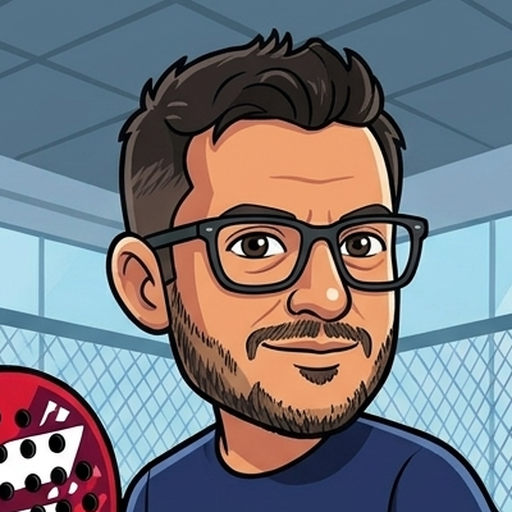
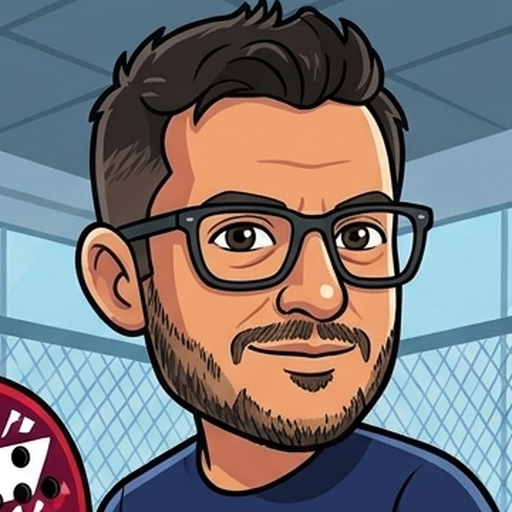
Refresh player image assets and normalization

diff --git a/style.css b/style.css
@@ -2069,6 +2069,7 @@ select option { background: #2a1a66; }
   .rank-elo { font-size: 1.5rem; }
   .player-detail-hero { grid-template-columns: 1fr 1fr; gap: 12px; }
   .player-detail-image { height: 190px; }
+  .player-image-fullscreen #player-image-fullscreen-body { padding: 12px; }
   .player-detail-elo { font-size: 2.6rem; }
   .player-detail-stats { grid-template-columns: repeat(3, 1fr); }
   .match-teams { gap: 8px; }

diff --git a/app.js b/app.js
@@ -1208,7 +1208,7 @@ function openPlayerDetail(id) {
 function openPlayerImageFullscreen(player) {
   const body = document.getElementById('player-image-fullscreen-body');
   if (!body) return;
-  body.innerHTML = playerImageMarkup(player, 'complete', 'player-fullscreen-image');
+  body.innerHTML = playerImageMarkup(player, 'full', 'player-fullscreen-image');
   openModal('modal-player-image');
 }
 

diff --git a/scripts/generate_brawl_assets.py b/scripts/generate_brawl_assets.py
@@ -11,13 +11,18 @@ SOURCE_DIR = Path.home() / "Downloads" / "brawlers"
 OUTPUT_DIR = Path(__file__).resolve().parents[1] / "assets" / "players"
 
 PLAYERS = {
-    "DarioPrina_brawl.png": ("mvvjcutrf2ic", (400, 0, 800, 400), None),
-    "AlbiPiro_brawl.png": ("mvvjcutrvgsf", (315, 55, 715, 455), None),
-    "Manu_brawl.png": ("mvwe1vvf4dvi", (315, 50, 715, 450), None),
-    "RobyTorti_brawl.png": ("mvvl69yshvaz", (315, 40, 715, 440), None),
-    "StefanoDelMonte_brawl.png": ("mvvl55fl2w0c", (340, 30, 740, 430), None),
-    "FraProca_brawl.jpeg": ("mvvjcutrdbxy", (55, 30, 455, 430), (0, 0, 509, 1024)),
+    "DarioPrina_brawl.png": ("mvvjcutrf2ic", (440, 40, 800, 400), None),
+    "AlbiPiro_brawl.png": ("mvvjcutrvgsf", (345, 80, 705, 440), None),
+    "Manu_brawl.png": ("mvwe1vvf4dvi", (345, 75, 705, 435), None),
+    "RobyTorti_brawl.png": ("mvvl69yshvaz", (345, 75, 705, 435), None),
+    "StefanoDelMonte_brawl.png": ("mvvl55fl2w0c", (355, 60, 715, 420), None),
+    "FraProca_brawl.jpeg": ("mvvjcutrdbxy", (75, 55, 435, 415), (0, 0, 509, 1024)),
+    "vando.png": ("mvzv329qdc6g", (172, 260, 532, 620), None),
+    "felice.png": ("mvxkz03ccb68", (172, 260, 532, 620), None),
 }
+
+FULL_CANVAS_SIZE = (704, 1024)
+FULL_CHARACTER_HEIGHT = 1024
 
 
 def generate_assets(
@@ -40,17 +45,24 @@ def generate_assets(
         raise ValueError(f"{source_path.name}: no visible pixels after background removal")
 
     character = isolated.crop(alpha_bbox)
-    scale = 960 / character.height
+    scale = min(FULL_CHARACTER_HEIGHT / character.height, (FULL_CANVAS_SIZE[0] - 16) / character.width)
+    character_height = round(character.height * scale)
     character = character.resize(
-        (round(character.width * scale), 960), Image.Resampling.LANCZOS
+        (round(character.width * scale), character_height), Image.Resampling.LANCZOS
     )
-    if character.width > 768:
+    if character.width > FULL_CANVAS_SIZE[0]:
         raise ValueError(
             f"{source_path.name}: normalized character is too wide ({character.width}px)"
         )
 
-    full = Image.new("RGBA", (768, 1024), (0, 0, 0, 0))
-    full.alpha_composite(character, ((768 - character.width) // 2, 64))
+    full = Image.new("RGBA", FULL_CANVAS_SIZE, (0, 0, 0, 0))
+    full.alpha_composite(
+        character,
+        (
+            (FULL_CANVAS_SIZE[0] - character.width) // 2,
+            FULL_CANVAS_SIZE[1] - character.height,
+        ),
+    )
     full.save(OUTPUT_DIR / f"{player_id}_full.png", "PNG", optimize=True)
 
 
@@ -58,7 +70,10 @@ def main() -> None:
     OUTPUT_DIR.mkdir(parents=True, exist_ok=True)
     for filename, (player_id, face_box, complete_box) in PLAYERS.items():
         generate_assets(SOURCE_DIR / filename, player_id, face_box, complete_box)
-        print(f"{filename} -> {player_id}_closeup.png, {player_id}_full.png, {player_id}_complete.png")
+        print(
+            f"{filename} -> {player_id}_closeup.png, "
+            f"{player_id}_full.png, {player_id}_complete.png"
+        )
 
 
 if __name__ == "__main__":

diff --git a/assets/players/normalize_full_images.py b/assets/players/normalize_full_images.py
@@ -1,0 +1,87 @@
+#!/usr/bin/env python3
+"""Normalize full-body player images to a shared canvas and visible height."""
+
+from __future__ import annotations
+
+import argparse
+from pathlib import Path
+
+from PIL import Image
+
+
+def normalize_image(
+    source_path: Path,
+    output_path: Path,
+    canvas_width: int,
+    canvas_height: int,
+    character_height: int,
+) -> None:
+    image = Image.open(source_path).convert("RGBA")
+    alpha_bbox = image.getchannel("A").getbbox()
+    if alpha_bbox is None:
+        raise ValueError("l'immagine non contiene pixel visibili")
+
+    character = image.crop(alpha_bbox)
+    scale = character_height / character.height
+    resized_width = round(character.width * scale)
+    character = character.resize(
+        (resized_width, character_height), Image.Resampling.LANCZOS
+    )
+
+    if resized_width > canvas_width:
+        raise ValueError(
+            f"il personaggio normalizzato e' largo {resized_width}px, "
+            f"oltre il canvas di {canvas_width}px"
+        )
+
+    normalized = Image.new("RGBA", (canvas_width, canvas_height), (0, 0, 0, 0))
+    position = (
+        (canvas_width - resized_width) // 2,
+        canvas_height - character_height,
+    )
+    normalized.alpha_composite(character, position)
+    normalized.save(output_path, "PNG", optimize=True)
+
+
+def main() -> None:
+    parser = argparse.ArgumentParser(
+        description="Uniforma canvas, altezza e padding delle immagini *_full.png."
+    )
+    parser.add_argument(
+        "--input-dir",
+        type=Path,
+        default=Path(__file__).parent,
+        help="cartella contenente le immagini originali",
+    )
+    parser.add_argument(
+        "--output-dir",
+        type=Path,
+        default=None,
+        help="cartella di output; default: input-dir/normalized",
+    )
+    parser.add_argument("--canvas-width", type=int, default=704)
+    parser.add_argument("--canvas-height", type=int, default=1024)
+    parser.add_argument("--character-height", type=int, default=1024)
+    args = parser.parse_args()
+
+    output_dir = args.output_dir or args.input_dir / "normalized"
+    output_dir.mkdir(parents=True, exist_ok=True)
+
+    source_paths = sorted(args.input_dir.glob("*_full.png"))
+    if not source_paths:
+        raise SystemExit(f"nessuna immagine *_full.png trovata in {args.input_dir}")
+
+    for source_path in source_paths:
+        output_path = output_dir / source_path.name
+        normalize_image(
+            source_path,
+            output_path,
+            args.canvas_width,
+            args.canvas_height,
+            args.character_height,
+        )
+        print(f"{source_path.name} -> {output_path}")
+
+
+if __name__ == "__main__":
+    main()

diff --git a/README.md b/README.md
@@ -32,6 +32,22 @@ Il file di destinazione viene creato in formato PNG RGBA con il canale alpha per
 Per preparare e uniformare le immagini full-body dei giocatori, consulta la
 [guida agli asset dei giocatori](assets/players/README.md).
 
+### Generazione degli asset Brawl
+
+Il generatore legge le immagini `*_brawl.png`/`*_brawl.jpeg` da
+`~/Downloads/brawlers` e produce automaticamente i tre asset associati agli ID
+dei giocatori in `assets/players`:
+
+```bash
+python3 -m pip install Pillow rembg
+python3 scripts/generate_brawl_assets.py
+```
+
+Il comando genera i file `_closeup.png`, `_full.png` e `_complete.png`.
+`_full` è un PNG trasparente verticale `704x1024`, mentre `_complete` conserva
+la scena originale e `_closeup` produce un ritratto quadrato ravvicinato.
+Il primo avvio di `rembg` può scaricare il modello di rimozione dello sfondo.
+
 ---
 
 ## ☁ Sincronizzazione Multi-dispositivo

diff --git a/assets/players/README.md b/assets/players/README.md
@@ -23,8 +23,9 @@ Recommended source preparation:
 
 ## Normalize full-body images
 
-The `*_full.png` files can be normalized to a shared `768x1024` transparent
-canvas, with the visible character set to `960px` high:
+The `*_full.png` files can be normalized to a shared `704x1024` transparent
+canvas, with the visible character set to `1024px` high. The Brawl generator in
+`scripts/generate_brawl_assets.py` uses the same dimensions:
 
 ```bash
 python3 normalize_full_images.py
